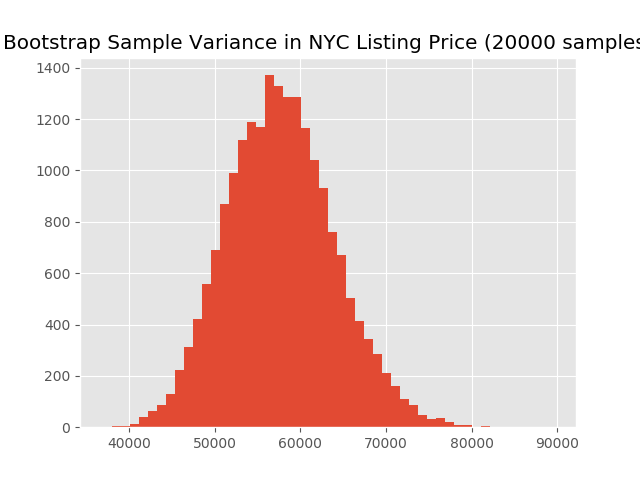
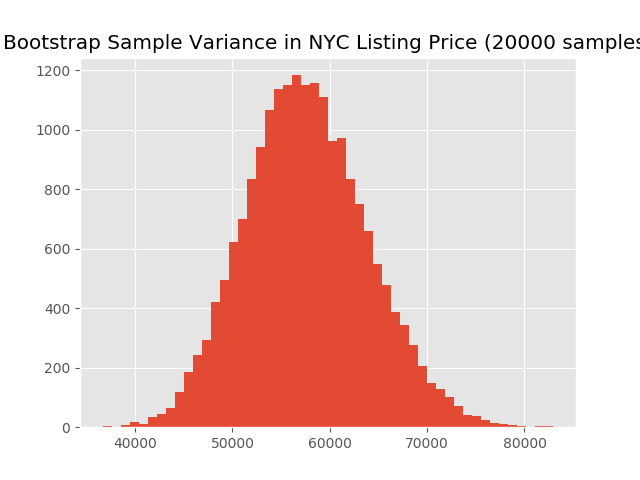
plots and gitignore file

diff --git a/src/eda.py b/src/eda.py
@@ -52,6 +52,11 @@ if __name__ == "__main__":
     top20_nyc_neighborhoods = neighborhood_listing_count[:20]
     top20_labels = top20_nyc_neighborhoods.index
 
+    type_listings_nyc = nyc.groupby(['room_type', 'neighbourhood']).agg({'room_type':'count'})
+    top20_entire_home_count = [type_listings_nyc.loc[('Entire home/apt', i)]['room_type'] for i in top20_labels]
+    top20_private_room_count = [type_listings_nyc.loc[('Private room', i)]['room_type'] for i in top20_labels]
+    top20_shared_room_count = [type_listings_nyc.loc[('Shared room', i)]['room_type'] for i in top20_labels]
+
     ##Bar plot
     fig, ax = plt.subplots(1,1)
     width = 0.8
@@ -59,27 +64,40 @@ if __name__ == "__main__":
     ax.barh(tickLocals, top20_nyc_neighborhoods[::-1], width)
     ax.set_yticks(ticks = tickLocals)
     ax.set_yticklabels(top20_labels[::-1])
-    #ax.set_xlim(min(tickLocals)-0.6, max(tickLocals) + 0.6)
     plt.tight_layout(pad=1)
     plt.savefig('images/top20_neighbourhood_nyc.png')
 
-
+    ##Side by side bar chart 
+    fig, ax = plt.subplots(1,1, figsize = (12, 6))
+    width = 0.2
+    tickLocals = np.arange(10)
+    ax.bar(tickLocals-2*width, top20_entire_home_count[:10], width, color = 'red', label = 'Entire Home/Apt')
+    ax.bar(tickLocals-width, top20_private_room_count[:10], width, color = 'blue', label = 'Private room')
+    ax.bar(tickLocals, top20_shared_room_count[:10], width, color = 'green', label = 'Shared room')
+    ax.set_xticks(ticks = tickLocals)
+    ax.set_xticklabels(top20_labels[:10])
+    plt.xticks(rotation = 80)
+    plt.legend()
+    plt.tight_layout(pad=1)
+    plt.savefig('images/top20_room_type.png')
     
-    # samp = Sampling(data = nyc, column_name = 'price')
-    # random.seed(53194)
-    # boot_var = samp.bootstrap(20000)
+    samp = Sampling(data = nyc, column_name = 'price')
+    random.seed(53194)
+    boot_var = samp.bootstrap(20000)
     
-    # ##Bootstrap sample variance of NYC price
-    # fig, ax = plt.subplots(1, 1)
-    # ax.hist(boot_var, bins = 50)
-    # ax.set_title('Bootstrap Sample Variance in NYC Listing Price (20000 samples)')
-    # plt.savefig('images/bootstapVar_Hist.png')
+    ##Bootstrap sample variance of NYC price
+    fig, ax = plt.subplots(1, 1)
+    ax.hist(boot_var, bins = 50)
+    ax.set_title('Bootstrap Sample Variance in NYC Listing Price (20000 samples)')
+    plt.savefig('images/bootstapVar_Hist.png')
 
-    # ##Sample distribution of the mean price in NYC
-    # means = samp.sample_means(20000, 1000)
-    # fig, ax = plt.subplots(1, 1)
-    # ax.hist(means, bins = 50)
-    # ax.set_title('Sample Means in NYC Listing Price (20000 samples)')
-    # plt.savefig('images/sample_means_hist.png')
+    ##Sample distribution of the mean price in NYC
+    means = samp.sample_means(20000, 1000)
+    fig, ax = plt.subplots(1, 1)
+    ax.hist(means, bins = 50)
+    ax.set_title('Sample Means in NYC Listing Price (20000 samples)')
+    plt.savefig('images/sample_means_hist.png')
+
+    #Hypothesis Testing for Mean Price of sample vs population 
 
 
